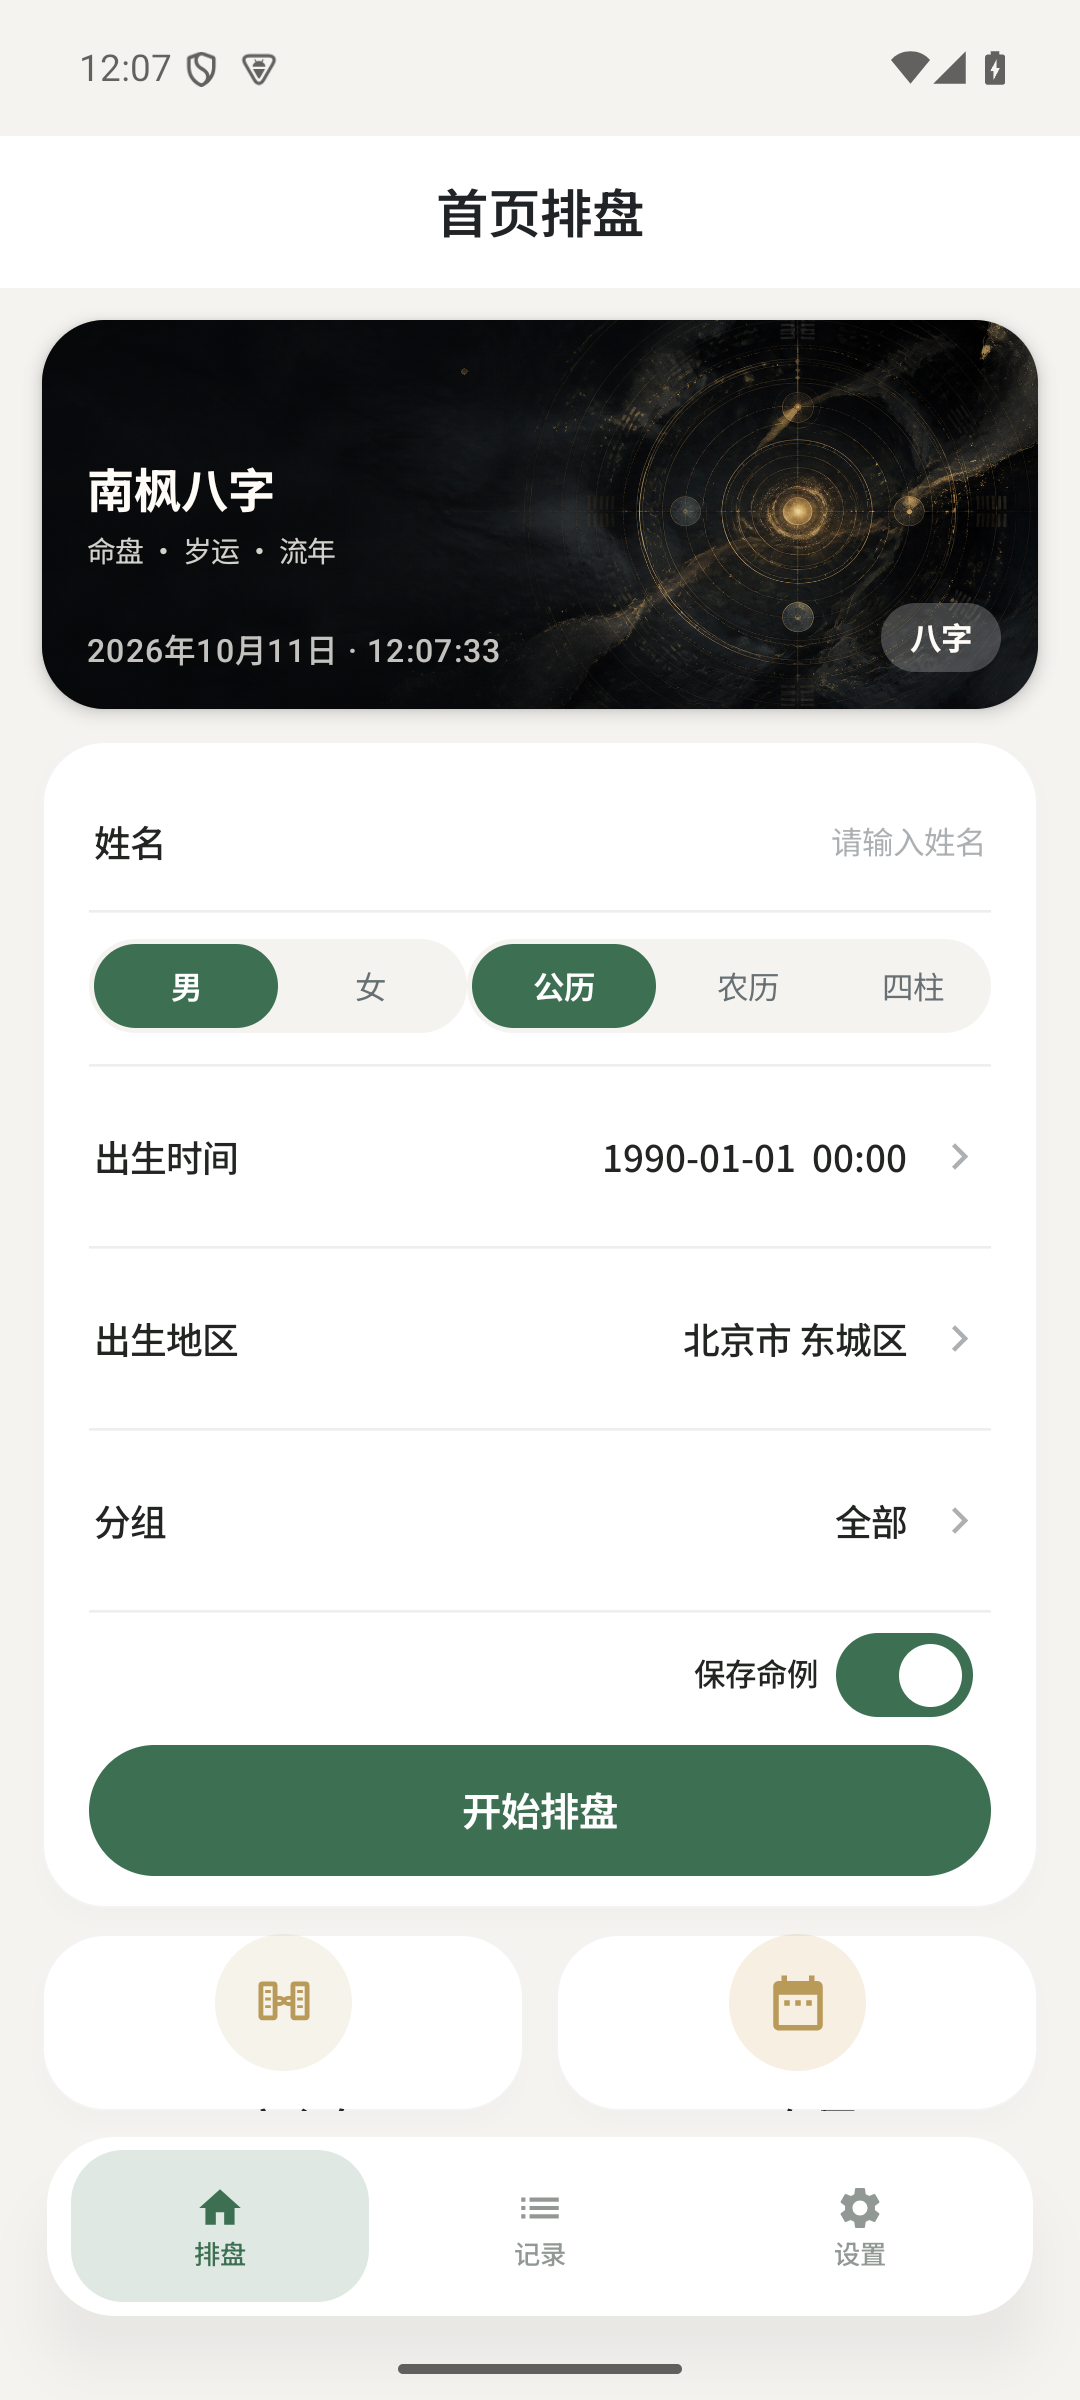
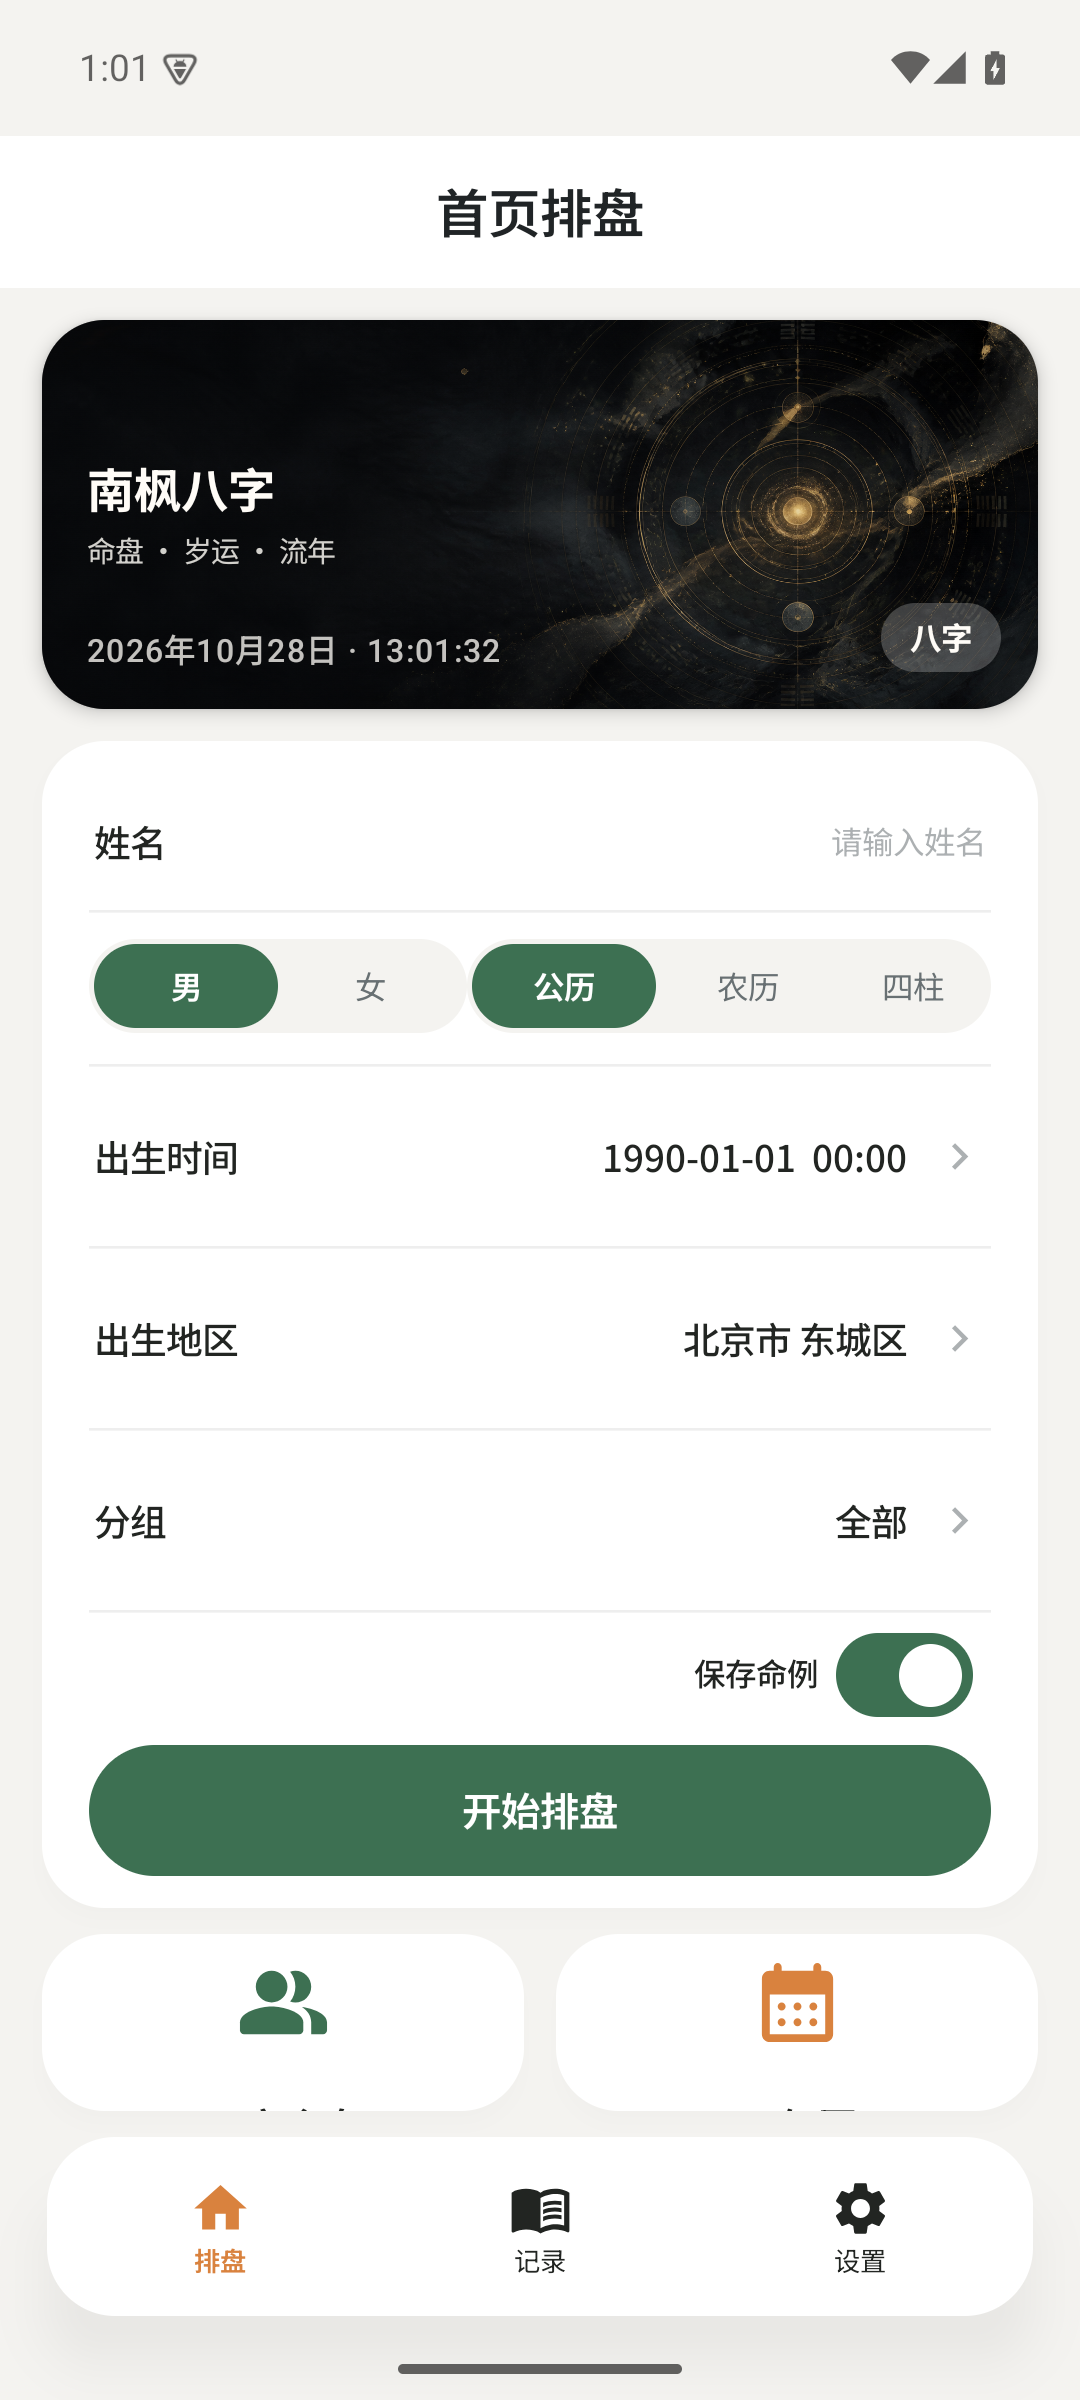
release: prepare v1.0.17 with current Android previews

diff --git a/README.md b/README.md
@@ -6,7 +6,7 @@
 
 ## 软件预览
 
-以下预览来自 v1.0.16 Release 安装包的 API 35 模拟器运行页面（1080 × 2400），使用合成演示资料。
+以下预览来自 v1.0.17 Release 安装包的 API 35 模拟器运行页面（1080 × 2400），使用合成演示资料。
 
 <p align="center">
   <img src="docs/screenshots/home.png" width="30%" alt="首页排盘" />
